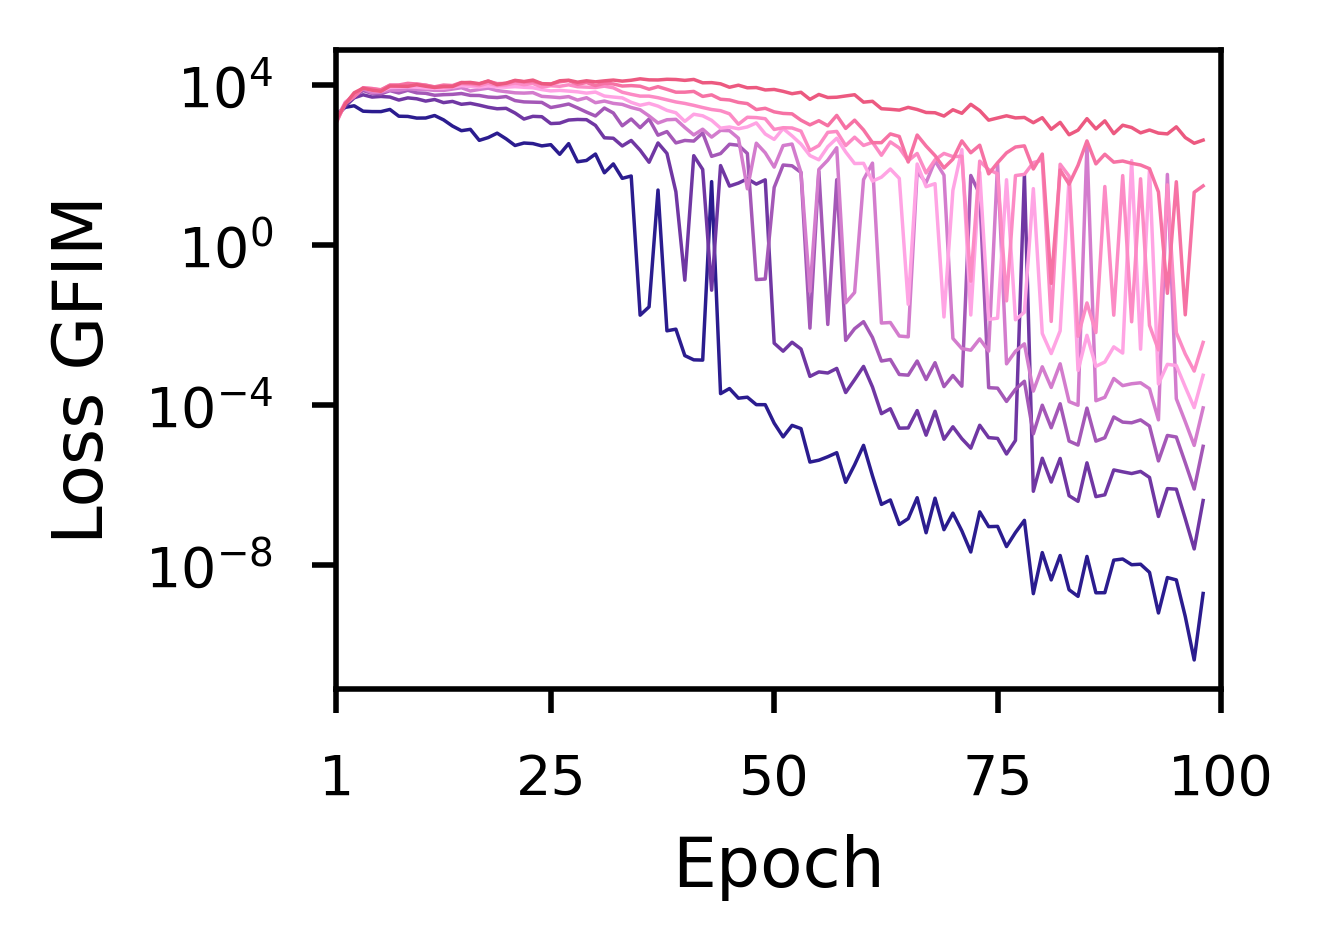
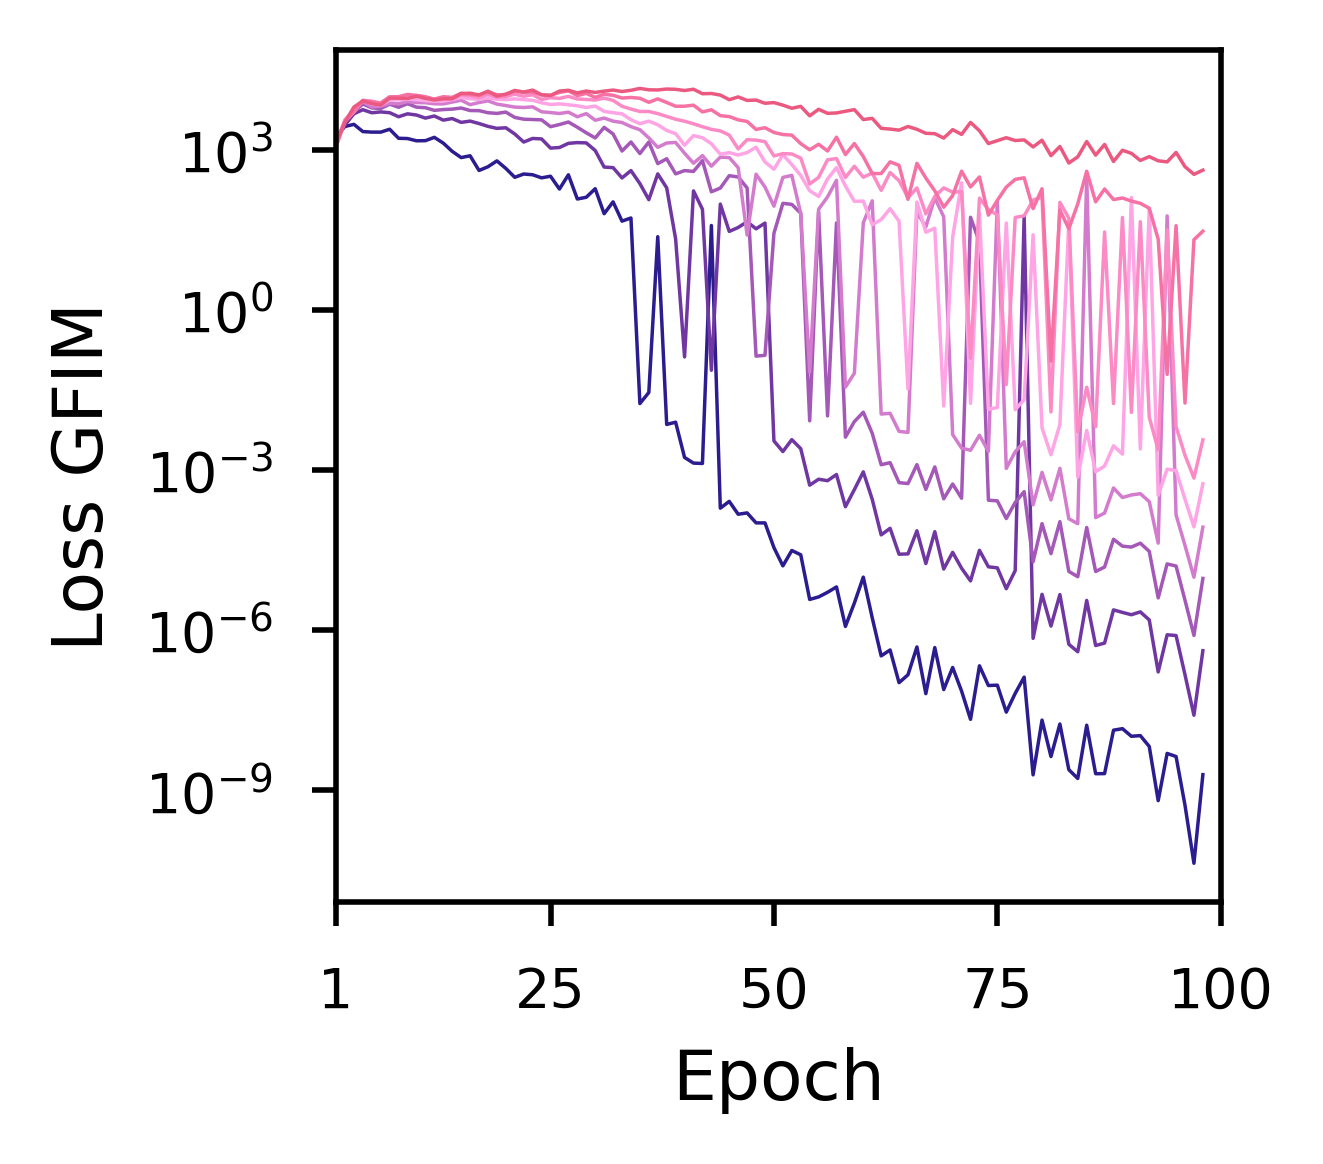
updated VIT graphs

diff --git a/graphs.py b/graphs.py
@@ -542,7 +542,7 @@ def make_VIT():
     FIMstep['Step'] = FIMstep['Step']+1
     print(FIMstep.head())
 
-    fig, ax = plt.subplots(1,1,figsize=set_size(165,height=120))
+    fig, ax = plt.subplots(1,1,figsize=set_size(165,height=160))
 
     sea.lineplot(ax=ax,x="Step",y="0",data=FIMstep,label="0 (Low)",linewidth=linsize,color=cols[0])
     sea.lineplot(ax=ax,x="Step",y="1",data=FIMstep,label="1",linewidth=linsize,color=cols[1])
@@ -568,7 +568,7 @@ def make_VIT():
     FIMstep['Step'] = FIMstep['Step']+1
     print(FIMstep.head())
 
-    fig, ax = plt.subplots(1,1,figsize=set_size(165,height=120))
+    fig, ax = plt.subplots(1,1,figsize=set_size(165,height=160))
 
     sea.lineplot(ax=ax,x="Step",y="0",data=FIMstep,label="0 (Low)",linewidth=linsize,color=cols[0])
     sea.lineplot(ax=ax,x="Step",y="1",data=FIMstep,label="1",linewidth=linsize,color=cols[1])
@@ -599,7 +599,7 @@ def make_VIT():
     FIMstep['Step'] = FIMstep['Step']+1
     print(FIMstep.head())
 
-    fig, ax = plt.subplots(1,1,figsize=set_size(165,height=120))
+    fig, ax = plt.subplots(1,1,figsize=set_size(165,height=160))
 
     sea.lineplot(ax=ax,x="Step",y="0",data=FIMstep,label="0 (Low)",linewidth=linsize,color=cols[0])
     sea.lineplot(ax=ax,x="Step",y="1",data=FIMstep,label="1",linewidth=linsize,color=cols[1])
